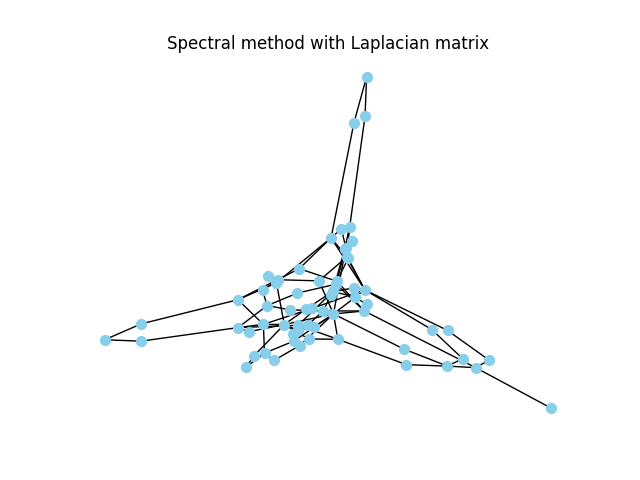
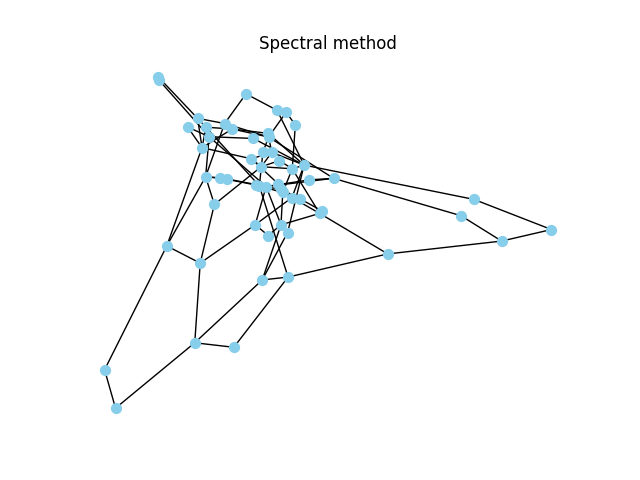
title

diff --git a/layout3.py b/layout3.py
@@ -14,7 +14,7 @@ def draw3(matrix, name, close, axes):
         nx.draw(G, with_labels=False, node_size=50, node_color="skyblue", ax=axes, pos=nx.spectral_layout(G))
     else:
         nx.draw(G, with_labels=False, node_size=50, node_color="skyblue", ax=axes, pos=nx.spectral_layout(G))
-    plt.title("Spectral method with Laplacian matrix")
+    plt.title("Spectral method")
     plt.savefig(name)
     if(close):
         plt.close()

diff --git a/utilities.py b/utilities.py
@@ -53,7 +53,7 @@ def test():
 
     fig = plt.figure()
     ax = fig.add_subplot(1,1,1)
-    ax.set_title("Spectral method with Laplacian matrix")
+    ax.set_title("Spectral method")
     
     # draw
     draw3(np.load('matrices/synthetic'+str(idx)+'.npy'), 'estimated_layout3', False, ax)
